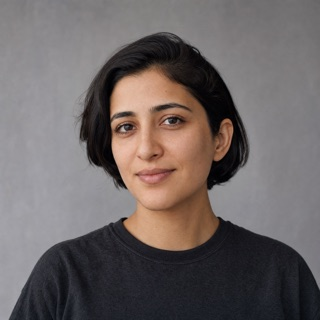
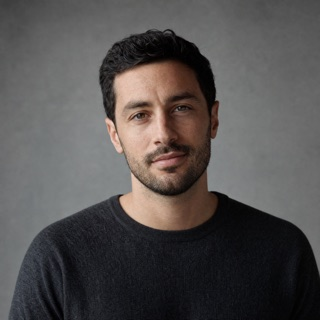
Male persona, and fix the row arrow's vertical alignment
The arrows sat in a baseline-aligned flex with an h-lh box: a baseline-aligned
replaced element puts its BOTTOM edge on the text baseline, so a line-height
tall box floated the glyph half a line too high. Switched every icon+text pair
to items-start with the font-size on the wrapper, so 1lh is the title's own
line box and the icon centres on the FIRST line — correct when a long title
wraps, too. Measured delta is now 0px on every row and both back links.

Persona is Sander Vos; new avatar and favicon.

diff --git a/files/resources/views/components/sections/writing-archive.blade.php b/files/resources/views/components/sections/writing-archive.blade.php
@@ -8,8 +8,8 @@
                 <a href="{{ $entry->link }}" class="row flex flex-col gap-x-8 gap-y-1 py-2.5 md:flex-row md:items-baseline">
                     <span class="order-2 shrink-0 font-mono text-sm text-muted tabular-nums md:order-1 md:w-28">{{ $entry->dateFormatted }}</span>
                     <span class="order-1 min-w-0 md:order-2 md:flex-1">
-                        <span class="flex items-baseline gap-1.5">
-                            <span class="text-base text-pretty sm:text-[0.9375rem]">{{ $entry->title }}</span>
+                        <span class="flex items-start gap-1.5 text-base sm:text-[0.9375rem]">
+                            <span class="min-w-0 text-pretty">{{ $entry->title }}</span>
                             <svg viewBox="0 0 16 16" class="row-arrow size-4 h-lh shrink-0 fill-muted" aria-hidden="true">
                                 <path d="M3 8a.75.75 0 0 1 .75-.75h7.19L8.22 4.53a.75.75 0 0 1 1.06-1.06l3.75 3.75a.75.75 0 0 1 0 1.06l-3.75 3.75a.75.75 0 1 1-1.06-1.06l2.72-2.72H3.75A.75.75 0 0 1 3 8Z"/>
                             </svg>

diff --git a/files/resources/views/components/sections/intro.blade.php b/files/resources/views/components/sections/intro.blade.php
@@ -1,14 +1,14 @@
 @props([
-    'greeting' => "Hi, I'm noor",
+    'greeting' => "Hi, I'm sander",
     'avatar' => '/images/avatar.jpg',
-    'avatarAlt' => 'Noor Haddad',
+    'avatarAlt' => 'Sander Vos',
     'showAvatar' => '1',
     'bio' => 'I build interfaces for teams that have outgrown their first one. Mostly design systems, mostly in the browser, mostly the unglamorous half where the tokens meet the components.',
     'bioSecond' => 'For the last two years that has been independent work out of Amsterdam. Before that I spent three years inside a scheduling product, which is where I learned what a design system costs when nobody is paying attention to it.',
     'availability' => 'Taking one new client this autumn.',
     'showAvailability' => '1',
     'contactLabel' => 'Get in touch',
-    'contactUrl' => 'mailto:noor@binary.site',
+    'contactUrl' => 'mailto:sander@binary.site',
 ])
 <section class="mx-auto max-w-[40rem] px-6 pt-10 sm:pt-14">
     @if ($showAvatar)

diff --git a/files/resources/views/components/sections/entry-nav.blade.php b/files/resources/views/components/sections/entry-nav.blade.php
@@ -12,8 +12,8 @@
                 @if ($entry->slug != $current)
                     <li>
                         <a href="{{ $entry->link }}" class="row flex items-baseline gap-4 py-1.5">
-                            <span class="flex min-w-0 items-baseline gap-1.5">
-                                <span class="text-base text-pretty sm:text-[0.9375rem]">{{ $entry->title }}</span>
+                            <span class="flex min-w-0 items-start gap-1.5 text-base sm:text-[0.9375rem]">
+                                <span class="min-w-0 text-pretty">{{ $entry->title }}</span>
                                 <svg viewBox="0 0 16 16" class="row-arrow size-4 h-lh shrink-0 fill-muted" aria-hidden="true">
                                     <path d="M3 8a.75.75 0 0 1 .75-.75h7.19L8.22 4.53a.75.75 0 0 1 1.06-1.06l3.75 3.75a.75.75 0 0 1 0 1.06l-3.75 3.75a.75.75 0 1 1-1.06-1.06l2.72-2.72H3.75A.75.75 0 0 1 3 8Z"/>
                                 </svg>

diff --git a/files/resources/views/components/sections/writing-list.blade.php b/files/resources/views/components/sections/writing-list.blade.php
@@ -17,8 +17,8 @@
         @foreach ($writing as $entry)
             <li>
                 <a href="{{ $entry->link }}" class="row flex items-baseline gap-4 py-1.5">
-                    <span class="flex min-w-0 items-baseline gap-1.5">
-                        <span class="text-base text-pretty sm:text-[0.9375rem]">{{ $entry->title }}</span>
+                    <span class="flex min-w-0 items-start gap-1.5 text-base sm:text-[0.9375rem]">
+                        <span class="min-w-0 text-pretty">{{ $entry->title }}</span>
                         <svg viewBox="0 0 16 16" class="row-arrow size-4 h-lh shrink-0 fill-muted" aria-hidden="true">
                             <path d="M3 8a.75.75 0 0 1 .75-.75h7.19L8.22 4.53a.75.75 0 0 1 1.06-1.06l3.75 3.75a.75.75 0 0 1 0 1.06l-3.75 3.75a.75.75 0 1 1-1.06-1.06l2.72-2.72H3.75A.75.75 0 0 1 3 8Z"/>
                         </svg>

diff --git a/files/resources/views/components/sections/project-list.blade.php b/files/resources/views/components/sections/project-list.blade.php
@@ -19,8 +19,8 @@
             <li>
                 <a href="{{ $entry->link }}" class="row flex items-baseline gap-4 py-1.5">
                     <span class="min-w-0">
-                        <span class="flex items-baseline gap-1.5">
-                            <span class="text-base sm:text-[0.9375rem]">{{ $entry->title }}</span>
+                        <span class="flex items-start gap-1.5 text-base sm:text-[0.9375rem]">
+                            <span class="min-w-0">{{ $entry->title }}</span>
                             <svg viewBox="0 0 16 16" class="row-arrow size-4 h-lh shrink-0 fill-muted" aria-hidden="true">
                                 <path d="M3 8a.75.75 0 0 1 .75-.75h7.19L8.22 4.53a.75.75 0 0 1 1.06-1.06l3.75 3.75a.75.75 0 0 1 0 1.06l-3.75 3.75a.75.75 0 1 1-1.06-1.06l2.72-2.72H3.75A.75.75 0 0 1 3 8Z"/>
                             </svg>

diff --git a/files/resources/views/components/sections/project-archive.blade.php b/files/resources/views/components/sections/project-archive.blade.php
@@ -13,8 +13,8 @@
                         @endif
                     </span>
                     <span class="order-1 min-w-0 md:order-2 md:flex-1">
-                        <span class="flex items-baseline gap-1.5">
-                            <span class="text-base sm:text-[0.9375rem]">{{ $entry->title }}</span>
+                        <span class="flex items-start gap-1.5 text-base sm:text-[0.9375rem]">
+                            <span class="min-w-0">{{ $entry->title }}</span>
                             <svg viewBox="0 0 16 16" class="row-arrow size-4 h-lh shrink-0 fill-muted" aria-hidden="true">
                                 <path d="M3 8a.75.75 0 0 1 .75-.75h7.19L8.22 4.53a.75.75 0 0 1 1.06-1.06l3.75 3.75a.75.75 0 0 1 0 1.06l-3.75 3.75a.75.75 0 1 1-1.06-1.06l2.72-2.72H3.75A.75.75 0 0 1 3 8Z"/>
                             </svg>

diff --git a/files/resources/views/components/sections/elsewhere.blade.php b/files/resources/views/components/sections/elsewhere.blade.php
@@ -8,8 +8,8 @@
         @foreach ($site->elsewhere as $item)
             <li>
                 <a href="{{ $item->url }}" class="row flex items-baseline gap-4 py-1.5">
-                    <span class="flex min-w-0 items-baseline gap-1.5">
-                        <span class="text-base sm:text-[0.9375rem]">{{ $item->label }}</span>
+                    <span class="flex min-w-0 items-start gap-1.5 text-base sm:text-[0.9375rem]">
+                        <span class="min-w-0">{{ $item->label }}</span>
                         <svg viewBox="0 0 16 16" class="row-arrow size-4 h-lh shrink-0 fill-muted" aria-hidden="true">
                             <path d="M4.22 11.78a.75.75 0 0 1 0-1.06L9.44 5.5H5.75a.75.75 0 0 1 0-1.5h5.5a.75.75 0 0 1 .75.75v5.5a.75.75 0 0 1-1.5 0V6.56l-5.22 5.22a.75.75 0 0 1-1.06 0Z"/>
                         </svg>

diff --git a/files/resources/views/components/sections/entry-header.blade.php b/files/resources/views/components/sections/entry-header.blade.php
@@ -9,7 +9,7 @@
 ])
 <section class="mx-auto max-w-[40rem] px-6 pt-10 pb-2 sm:pt-14">
     @if ($showBack)
-        <a href="{{ $backUrl }}" class="row inline-flex items-baseline gap-1.5 text-base text-muted hover:text-ink sm:text-[0.9375rem]">
+        <a href="{{ $backUrl }}" class="row inline-flex items-start gap-1.5 text-base text-muted hover:text-ink sm:text-[0.9375rem]">
             <svg viewBox="0 0 16 16" class="size-4 h-lh shrink-0 fill-current" aria-hidden="true">
                 <path d="M13 8a.75.75 0 0 0-.75-.75H5.06l2.72-2.72a.75.75 0 0 0-1.06-1.06L2.97 7.22a.75.75 0 0 0 0 1.06l3.75 3.75a.75.75 0 1 0 1.06-1.06L5.06 8.25h7.19A.75.75 0 0 0 13 8Z"/>
             </svg>

diff --git a/files/resources/views/components/sections/project-header.blade.php b/files/resources/views/components/sections/project-header.blade.php
@@ -15,7 +15,7 @@
     'backUrl' => '/projects',
 ])
 <section class="mx-auto max-w-[40rem] px-6 pt-10 pb-2 sm:pt-14">
-    <a href="{{ $backUrl }}" class="row inline-flex items-baseline gap-1.5 text-base text-muted hover:text-ink sm:text-[0.9375rem]">
+    <a href="{{ $backUrl }}" class="row inline-flex items-start gap-1.5 text-base text-muted hover:text-ink sm:text-[0.9375rem]">
         <svg viewBox="0 0 16 16" class="size-4 h-lh shrink-0 fill-current" aria-hidden="true">
             <path d="M13 8a.75.75 0 0 0-.75-.75H5.06l2.72-2.72a.75.75 0 0 0-1.06-1.06L2.97 7.22a.75.75 0 0 0 0 1.06l3.75 3.75a.75.75 0 1 0 1.06-1.06L5.06 8.25h7.19A.75.75 0 0 0 13 8Z"/>
         </svg>

diff --git a/files/resources/views/components/layouts/main.blade.php b/files/resources/views/components/layouts/main.blade.php
@@ -1,5 +1,5 @@
 @props([
-    'title' => 'Noor Haddad — Design engineer',
+    'title' => 'Sander Vos — Design engineer',
     'description' => 'Design engineer in Amsterdam. I build interfaces, and I write about the parts that were harder than they looked.',
     'current' => '/',
     'showFooter' => '1',

diff --git a/files/resources/views/pages/index.blade.php b/files/resources/views/pages/index.blade.php
@@ -1,5 +1,5 @@
 <x-layouts.main
-    title="Noor Haddad — Design engineer"
+    title="Sander Vos — Design engineer"
     description="Design engineer in Amsterdam. I build interfaces, and I write about the parts that were harder than they looked."
     current="/"
 >

diff --git a/files/resources/views/pages/404.blade.php b/files/resources/views/pages/404.blade.php
@@ -1,3 +1,3 @@
-<x-layouts.main title="Not found — Noor Haddad" description="That page does not exist." current="/">
+<x-layouts.main title="Not found — Sander Vos" description="That page does not exist." current="/">
     <x-sections.not-found/>
 </x-layouts.main>
